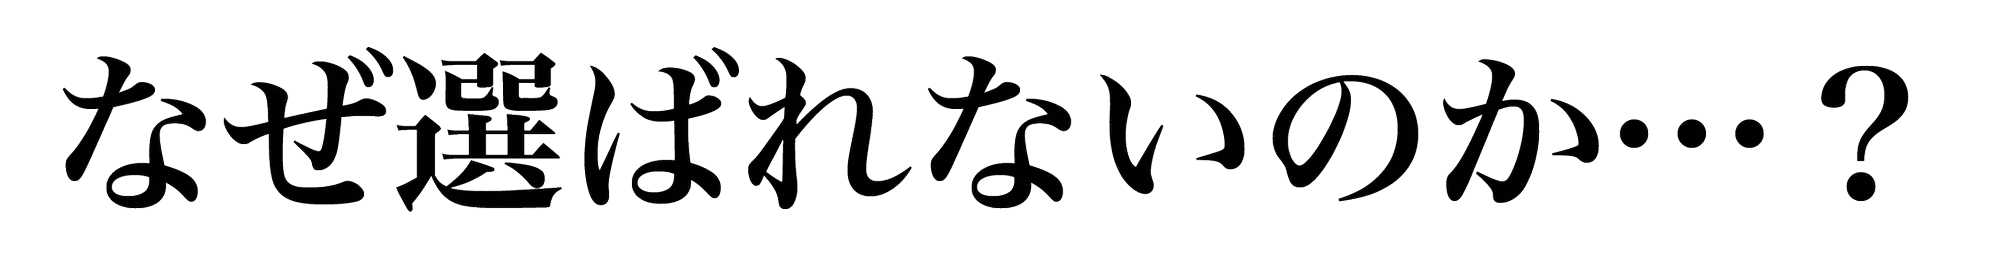
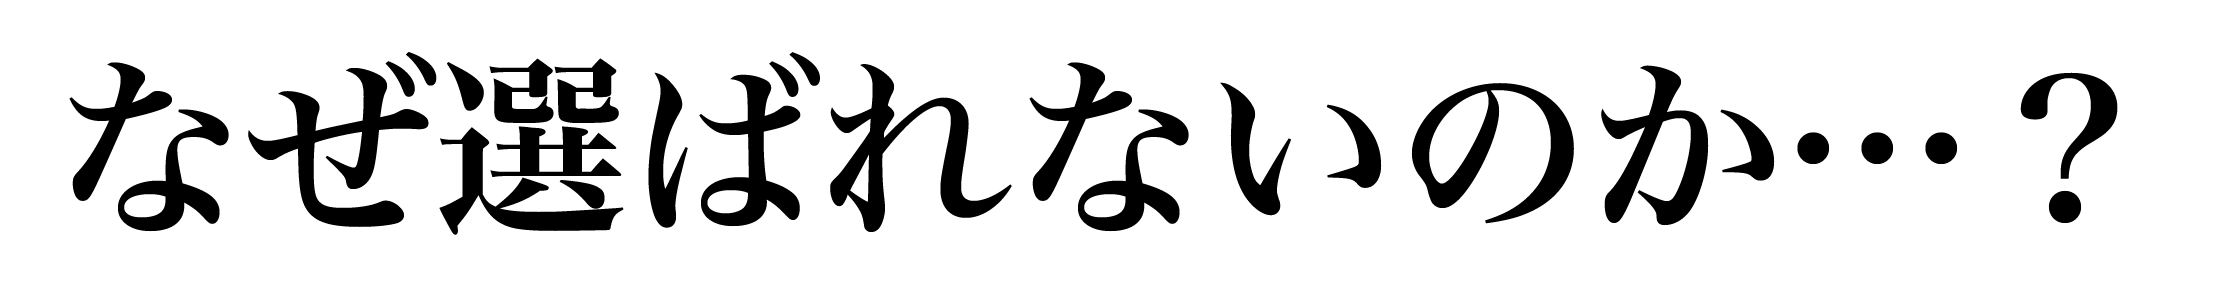
課題提起セクションの見出し画像を差し替え、縦幅180pxで表示

Changed region(s): [[0.2172, 0.5527, 0.2793, 0.5818], [0.2482, 0.4655, 0.2793, 0.4945]]

diff --git a/css/responsive.css b/css/responsive.css
@@ -152,7 +152,8 @@ img.sp-only {
 }
 
 .problem-heading-image {
-  width: 280px;
+  height: 60px;
+  width: auto;
   margin-left: -4px;
 }
 
@@ -385,7 +386,8 @@ img.sp-only {
   }
 
   .problem-heading-image {
-    width: 240px;
+    height: 50px;
+    width: auto;
   }
 
   .problem__voice-list li {

diff --git a/css/sections.css b/css/sections.css
@@ -414,9 +414,9 @@
 }
 
 .problem-heading-image {
-  width: 500px;
+  height: 180px;
+  width: auto;
   max-width: 100%;
-  height: auto;
   display: block;
   margin: 0 0 var(--spacing-lg);
   margin-left: -8px;
